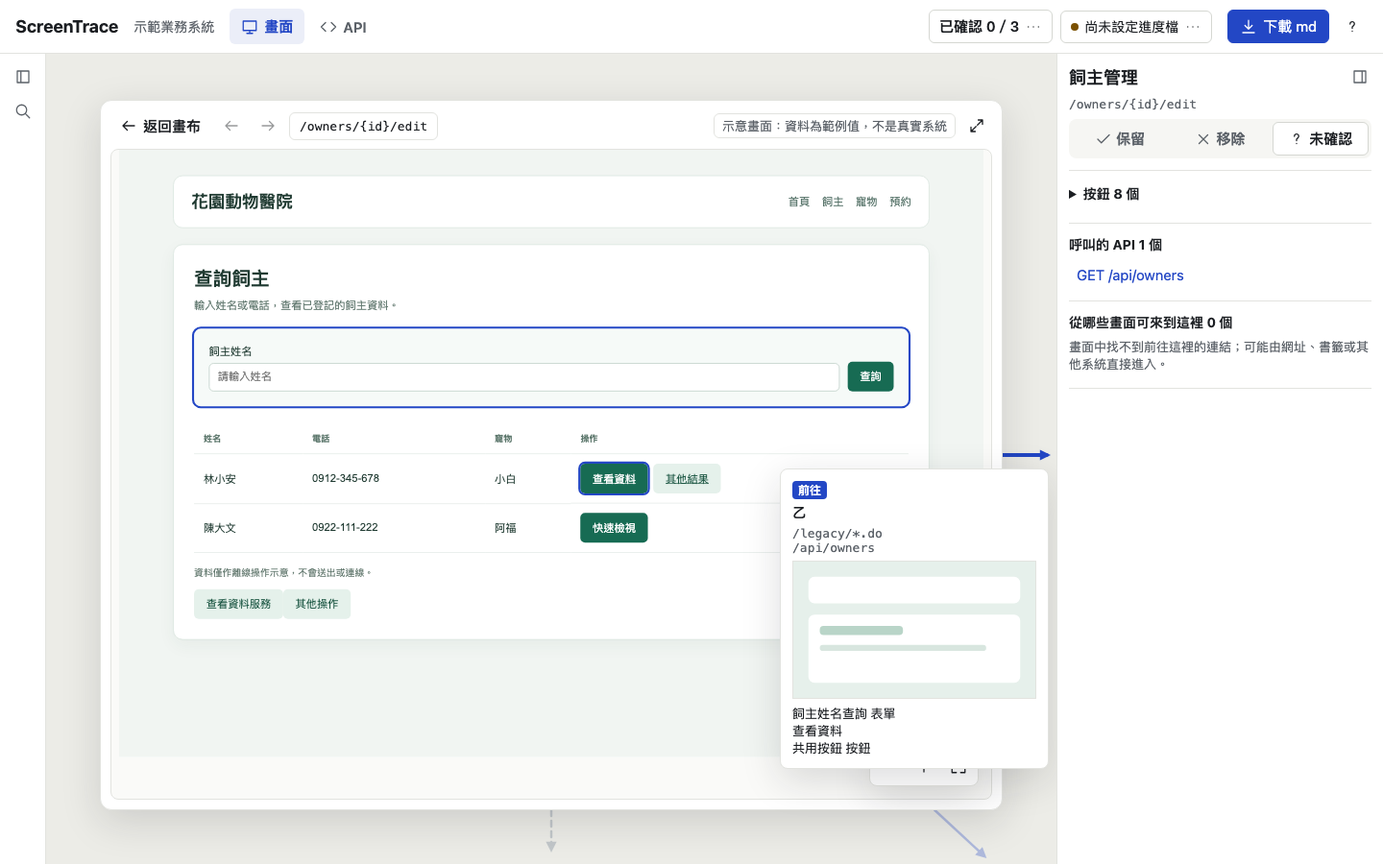
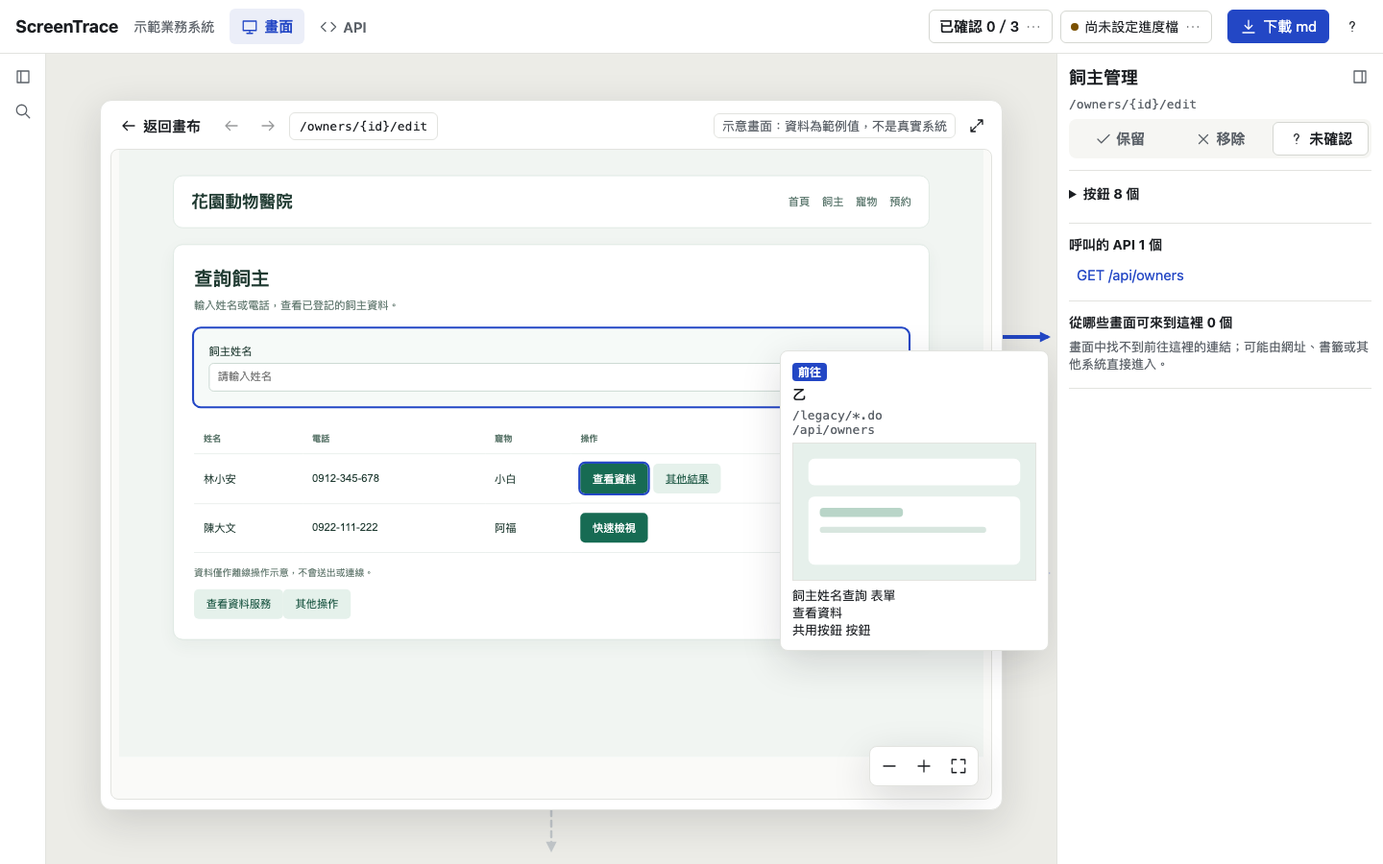
WP105: lines around an open screen arrive on the left and leave on the right, merged by area

Changed region(s): [[0.5625, 0.3733, 0.7812, 0.9022], [0.5625, 0.8089, 0.6562, 0.8711], [0.6875, 0.9644, 0.7188, 0.9956]]

diff --git a/screentrace-viewer/src/canvas.ts b/screentrace-viewer/src/canvas.ts
@@ -39,6 +39,8 @@ export interface CanvasView {
 }
 
 const CARD={width:250,height:220},MOTION_MS=450,DENSE_SCREENS=20,BOX_MARGIN={side:56,top:48,bottom:56};
+/** The side margin of the preview box when some line around it stands for a whole area and carries its label. */
+const BUNDLE_SIDE=176;
 /** The preview fades in over this part of the zoom; if it is still loading, it waits at most READY_MS more. */
 const REVEAL={from:0.3,span:0.45},LEAVE_SPAN=0.3,READY_MS=600,FADE_MS=180;
 /** Same curve as the side panels' width transition, so the canvas and the panels move as one. */
@@ -310,10 +312,34 @@ export function canvas(index:Index,payload:Payload,options:CanvasOptions):Canvas
  const lines=document.createElementNS(svgNs,'svg') as SVGSVGElement,tips=element('div',undefined,'focus-tips');
  lines.classList.add('focus-lines');lines.innerHTML=`<defs>${focusMarkers}</defs>`;
  lines.style.display='none';
- const box=()=>{const w=viewport.clientWidth,h=viewport.clientHeight;return {left:BOX_MARGIN.side,top:BOX_MARGIN.top,right:w-BOX_MARGIN.side,bottom:h-BOX_MARGIN.bottom,width:Math.max(1,w-2*BOX_MARGIN.side),height:Math.max(1,h-BOX_MARGIN.top-BOX_MARGIN.bottom)};};
- const transformFor=(id:string):CanvasTransform=>{const p=positions.get(id)!,b=box(),z=Math.min(b.width/CARD.width,b.height/CARD.height);return {zoom:z,x:b.left+b.width/2-(p.x+CARD.width/2)*z,y:b.top+b.height/2-(p.y+CARD.height/2)*z};};
- const placeLayer=(host:HTMLElement=layer)=>{const b=box();Object.assign(host.style,{left:`${b.left}px`,top:`${b.top}px`,width:`${b.width}px`,height:`${b.height}px`});};
+ const box=(id=focused)=>{const w=viewport.clientWidth,h=viewport.clientHeight,side=labelled(id)?BUNDLE_SIDE:BOX_MARGIN.side;return {left:side,top:BOX_MARGIN.top,right:w-side,bottom:h-BOX_MARGIN.bottom,width:Math.max(1,w-2*side),height:Math.max(1,h-BOX_MARGIN.top-BOX_MARGIN.bottom)};};
+ const transformFor=(id:string):CanvasTransform=>{const p=positions.get(id)!,b=box(id),z=Math.min(b.width/CARD.width,b.height/CARD.height);return {zoom:z,x:b.left+b.width/2-(p.x+CARD.width/2)*z,y:b.top+b.height/2-(p.y+CARD.height/2)*z};};
+ const placeLayer=(host:HTMLElement=layer,id=focused)=>{const b=box(id);Object.assign(host.style,{left:`${b.left}px`,top:`${b.top}px`,width:`${b.width}px`,height:`${b.height}px`});};
  const center=(id:string)=>{const p=positions.get(id)!;return {x:p.x+CARD.width/2,y:p.y+CARD.height/2};};
+ // Around an open screen, lines arrive on the left and leave on the right, one row per area of the map (per screen
+ // when the map has no areas), in the order those screens sit on the map from top to bottom. An area with several
+ // screens is one line whose label names the area and its count, and opens the list of its screens.
+ type Bundle={key:string;label:string;relations:FocusRelation[];others:string[]};
+ const areaOf=new Map<string,{key:string;label:string}>();
+ if(grouped)for(const g of grouped.groups)for(const member of g.members)areaOf.set(member,{key:g.key,label:g.label.split(' · ')[0]});
+ const bundleCache=new Map<string,{known:Bundle[];incoming:Bundle[]}>();
+ const focusBundles=(id:string)=>{
+  const cached=bundleCache.get(id);if(cached)return cached;
+  const gather=(items:{relation:FocusRelation;other:string}[])=>{
+   const map=new Map<string,Bundle>();
+   for(const {relation,other} of items){
+    const area=areaOf.get(other),key=area?`area:${area.key}`:`screen:${other}`;
+    const bundle=map.get(key)??map.set(key,{key,label:area?.label??(index.nodes.get(other)?.name||other),relations:[],others:[]}).get(key)!;
+    bundle.relations.push(relation);if(!bundle.others.includes(other))bundle.others.push(other);
+   }
+   const middle=(bundle:Bundle)=>{const points=bundle.others.map(center);return {x:points.reduce((s,p)=>s+p.x,0)/points.length,y:points.reduce((s,p)=>s+p.y,0)/points.length};};
+   return [...map.values()].map(bundle=>({bundle,at:middle(bundle)})).sort((a,b)=>a.at.y-b.at.y||a.at.x-b.at.x||(a.bundle.key<b.bundle.key?-1:a.bundle.key>b.bundle.key?1:0)).map(item=>item.bundle);
+  };
+  const result={known:gather(focusLines(index,id).filter(r=>!r.unresolved&&r.to!==id).map(relation=>({relation,other:relation.to}))),
+   incoming:gather(partitionNavigation(index).flows.filter(r=>r.to===id&&r.from!==id).map(relation=>({relation,other:relation.from})))};
+  bundleCache.set(id,result);return result;
+ };
+ const labelled=(id:string|undefined)=>{if(!id)return false;const b=focusBundles(id);return [...b.known,...b.incoming].some(bundle=>bundle.others.length>1);};
  // Shared navigation (header/footer links) is summarised as one dashed line each way above the preview box;
  // its label opens the list of screens behind it.
  const drawShared=(id:string,b:ReturnType<typeof box>)=>{
@@ -347,7 +373,7 @@ export function canvas(index:Index,payload:Payload,options:CanvasOptions):Canvas
  const lightLines=(component:string|undefined)=>{for(const {group,triggers} of triggerLines)group.classList.toggle('is-lit',!!component&&triggers.includes(component));};
  const drawLines=(id:string)=>{
   lines.querySelectorAll('g').forEach(g=>g.remove());tips.replaceChildren();triggerLines=[];
-  const b=box(),cx=b.left+b.width/2,cy=b.top+b.height/2,w=viewport.clientWidth,h=viewport.clientHeight,from=center(id);
+  const b=box(id),w=viewport.clientWidth,h=viewport.clientHeight;
   lines.setAttribute('width',String(w));lines.setAttribute('height',String(h));
   // Lines leave toward each destination and arrive from each source, in the directions the overview draws them.
   const relations=focusLines(index,id),known=relations.filter(r=>!r.unresolved&&r.to!==id),loops=relations.filter(r=>r.to===id),stubs=relations.filter(r=>r.unresolved);
@@ -355,21 +381,21 @@ export function canvas(index:Index,payload:Payload,options:CanvasOptions):Canvas
   type Kind='known'|'incoming'|'loop'|'unresolved';
   type Segment={relation:FocusRelation;sx:number;sy:number;ex:number;ey:number;d?:string;kind:Kind};
   const segments:Segment[]=[];
-  const rays=[...known.map(relation=>({relation,other:relation.to,kind:'known' as Kind})),...incoming.map(relation=>({relation,other:relation.from,kind:'incoming' as Kind}))]
-   .map(ray=>{const to=center(ray.other),dx=to.x-from.x,dy=to.y-from.y,length=Math.hypot(dx,dy)||1;return {...ray,ux:dx/length,uy:dy/length,angle:Math.atan2(dy,dx)};})
-   .sort((a,b)=>a.angle-b.angle||(a.other<b.other?-1:a.other>b.other?1:0)||(a.kind<b.kind?-1:a.kind>b.kind?1:0));
-  const groups:(typeof rays)[]=[];for(const ray of rays){const last=groups.at(-1);if(last&&ray.angle-last[0].angle<5*Math.PI/180)last.push(ray);else groups.push([ray]);}
-  for(const group of groups)group.forEach((ray,i)=>{
-   const {ux,uy}=ray,edge=Math.min(ux?b.width/2/Math.abs(ux):Infinity,uy?b.height/2/Math.abs(uy):Infinity);
-   const reach=Math.min(ux>0?(w-6-cx)/ux:ux<0?(6-cx)/ux:Infinity,uy>0?(h-6-cy)/uy:uy<0?(6-cy)/uy:Infinity);
-   const offset=(i-(group.length-1)/2)*18,nx=-uy*offset,ny=ux*offset,inner={x:cx+ux*edge+nx,y:cy+uy*edge+ny},outer={x:cx+ux*reach+nx,y:cy+uy*reach+ny};
-   const [start,end]=ray.kind==='incoming'?[outer,inner]:[inner,outer];
-   segments.push({relation:ray.relation,kind:ray.kind,sx:start.x,sy:start.y,ex:end.x,ey:end.y});
-  });
+  const bundles=focusBundles(id),wide=labelled(id),labels:{bundle:Bundle;kind:'known'|'incoming';y:number}[]=[],names:{bundle:Bundle;kind:'known'|'incoming';y:number}[]=[];
+  for(const kind of ['incoming','known'] as const){
+   const list=bundles[kind];
+   list.forEach((bundle,i)=>{
+    const y=Math.round(b.top+b.height*(i+1)/(list.length+1)),edge=kind==='incoming'?b.left:b.right,outer=kind==='incoming'?6:w-6;
+    if(bundle.others.length>1){labels.push({bundle,kind,y});return;}
+    // One screen: one line per flow, side by side; when the margins hold labels, its name labels it too.
+    if(wide)names.push({bundle,kind,y});
+    bundle.relations.forEach((relation,j)=>{const ly=y+(j-(bundle.relations.length-1)/2)*10;segments.push(kind==='incoming'?{relation,kind,sx:outer,sy:ly,ex:edge,ey:ly}:{relation,kind,sx:edge,sy:ly,ex:outer,ey:ly});});
+   });
+  }
   drawShared(id,b);
   stubs.forEach((relation,i)=>{const sx=b.left+b.width*(i+1)/(stubs.length+1);segments.push({relation,kind:'unresolved',sx,sy:b.bottom,ex:sx,ey:Math.min(h-8,b.bottom+44)});});
   // Lines back to this screen sit where the box edge is free: away from every other line's end and the shared links.
-  const shared=sharedNavigation(index,id),taken=segments.map(segment=>segment.kind==='incoming'?{x:segment.ex,y:segment.ey}:{x:segment.sx,y:segment.sy});
+  const shared=sharedNavigation(index,id),taken=[...segments.map(segment=>segment.kind==='incoming'?{x:segment.ex,y:segment.ey}:{x:segment.sx,y:segment.sy}),...labels.map(l=>({x:l.kind==='incoming'?b.left:b.right,y:l.y}))];
   if(shared.into.length)taken.push({x:b.left+b.width*0.3,y:b.top});if(shared.out.length)taken.push({x:b.left+b.width*0.7,y:b.top});
   loops.forEach(relation=>{const spot=freeSpot(b,taken,!shared.into.length&&!shared.out.length);taken.push(spot);segments.push({relation,kind:'loop',...loopPath(spot,b)});});
   for(const segment of segments){
@@ -394,13 +420,49 @@ export function canvas(index:Index,payload:Payload,options:CanvasOptions):Canvas
    group.append(visibleLine,hit);lines.append(group);
    if(!arriving)triggerLines.push({group,triggers:relation.triggers});
   }
+  for(const {bundle,kind,y} of names){
+   const arriving=kind==='incoming',other=bundle.others[0],name=index.nodes.get(other)?.name||other;
+   const pill=element('button',undefined,`focus-bundle is-screen ${arriving?'is-in':'is-out'}`);pill.append(element('span',name,'focus-bundle-name'));
+   pill.dataset.kind=arriving?'incoming-screen':'known-screen';pill.dataset.screen=other;pill.setAttribute('aria-label',`${arriving?'來自':'前往'}「${name}」`);
+   pill.style.maxWidth=`${Math.max(64,(arriving?b.left:w-b.right)-28)}px`;tips.append(pill);
+   const pw=pill.offsetWidth||120,ph=pill.offsetHeight||24;Object.assign(pill.style,{left:`${arriving?8:w-8-pw}px`,top:`${y-ph/2}px`});
+   pill.onpointerenter=()=>{if(!frameId)options.onIntent?.(other);};pill.onclick=event=>{event.stopPropagation();options.onOpen(other);};
+  }
+  for(const {bundle,kind,y} of labels){
+   const arriving=kind==='incoming',count=bundle.others.length,dataKind=arriving?'incoming-bundle':'known-bundle';
+   const pill=element('button',undefined,`focus-bundle ${arriving?'is-in':'is-out'}`);
+   pill.append(element('span',bundle.label,'focus-bundle-name'),element('span',String(count),'focus-bundle-count'));
+   pill.dataset.group=bundle.key;pill.dataset.kind=dataKind;pill.dataset.count=String(count);
+   pill.setAttribute('aria-haspopup','true');pill.setAttribute('aria-expanded','false');pill.setAttribute('aria-label',`${arriving?'來自':'前往'}「${bundle.label}」的 ${count} 個畫面`);
+   pill.style.maxWidth=`${Math.max(64,(arriving?b.left:w-b.right)-28)}px`;tips.append(pill);
+   const pw=pill.offsetWidth||120,ph=pill.offsetHeight||24,left=arriving?8:w-8-pw;
+   Object.assign(pill.style,{left:`${left}px`,top:`${y-ph/2}px`});
+   const [sx,ex]=arriving?[left+pw,b.left]:[b.right,left],end=arrowEnd(sx,y,ex,y);
+   const group=document.createElementNS(svgNs,'g'),line=document.createElementNS(svgNs,'path') as SVGPathElement;
+   line.setAttribute('d',`M${sx},${y} L${end.x},${end.y}`);line.setAttribute('class',`focus-line bundle ${arriving?'is-in':'is-out'}`);
+   line.style.strokeWidth=String(Math.min(8,2.5+Math.log2(count)*1.5));line.dataset.kind=dataKind;line.dataset.group=bundle.key;line.dataset.count=String(count);
+   group.append(line);lines.append(group);
+   const triggers=arriving?[]:bundle.relations.flatMap(relation=>relation.triggers);if(!arriving)triggerLines.push({group,triggers});
+   const menu=element('div',undefined,'shared-popover focus-bundle-menu');menu.hidden=true;menu.setAttribute('role','menu');menu.dataset.group=bundle.key;
+   menu.append(element('strong',`${arriving?'從':'前往'}「${bundle.label}」的 ${count} 個畫面`));
+   for(const other of bundle.others){const item=element('button',index.nodes.get(other)?.name||other,'link-row');item.setAttribute('role','menuitem');item.dataset.bundleScreen=other;item.onclick=()=>options.onOpen(other);item.onpointerenter=()=>{if(!frameId)options.onIntent?.(other);};menu.append(item);}
+   const close=()=>{menu.hidden=true;pill.setAttribute('aria-expanded','false');};
+   pill.onpointerenter=pill.onfocus=()=>{group.classList.add('is-active');if(!arriving)options.onLineHover?.(triggers);};
+   pill.onpointerleave=pill.onblur=()=>{group.classList.remove('is-active');options.onLineHover?.(undefined);};
+   pill.onclick=event=>{event.stopPropagation();const open=menu.hidden;tips.querySelectorAll<HTMLElement>('.shared-popover').forEach(m=>{m.hidden=true;});tips.querySelectorAll('.shared-link,.focus-bundle').forEach(p=>p.setAttribute('aria-expanded','false'));
+    if(!open)return;menu.hidden=false;pill.setAttribute('aria-expanded','true');
+    const mw=menu.offsetWidth||260,mh=menu.offsetHeight||200;menu.style.left=`${arriving?left:Math.max(8,w-8-mw)}px`;menu.style.top=`${Math.max(8,Math.min(h-mh-8,y+ph/2+6))}px`;menu.querySelector<HTMLElement>('button')?.focus();};
+   menu.addEventListener('keydown',event=>{if(event.key==='Escape'){event.stopPropagation();close();pill.focus();}});
+   menu.addEventListener('click',event=>event.stopPropagation());
+   tips.append(menu);
+  }
  };
  // Zooming is a shared-element move: the card's thumbnail lands exactly where the page appears in the preview box,
  // and the box travels with the card, so only its frame fades in around a picture that never jumps.
  const aligned=(id:string,host:HTMLElement):CanvasTransform=>{
   const card=cards.get(id),image=card?.querySelector<HTMLImageElement>('img.card-preview'),scroller=host.querySelector<HTMLElement>('.prototype-scroll'),frame=scroller?.offsetParent as HTMLElement|null;
   if(!card||!image?.naturalWidth||!image.naturalHeight||!scroller||!frame||host.hidden)return transformFor(id);
-  const page=Math.max(1,payload.preview.screens?.find(s=>s.graphScreenId===id)?.width||1440),b=box(),p=positions.get(id)!;
+  const page=Math.max(1,payload.preview.screens?.find(s=>s.graphScreenId===id)?.width||1440),b=box(id),p=positions.get(id)!;
   const boxWidth=image.clientWidth,boxHeight=image.clientHeight,shown=boxWidth/boxHeight<image.naturalWidth/image.naturalHeight?boxWidth:boxHeight*image.naturalWidth/image.naturalHeight;
   const thumbX=p.x+card.clientLeft+image.offsetLeft+(boxWidth-shown)/2,thumbY=p.y+card.clientTop+image.offsetTop;
   const inner=scroller.clientWidth,scale=Math.min(1,Math.max(1,inner-16)/page);
@@ -410,7 +472,7 @@ export function canvas(index:Index,payload:Payload,options:CanvasOptions):Canvas
  };
  /** Keeps a preview box glued to its card while the world moves. */
  const glue=(host:HTMLElement,id:string)=>{
-  placeLayer(host);const a=aligned(id,host),k=zoom/a.zoom,b=box();
+  placeLayer(host,id);const a=aligned(id,host),k=zoom/a.zoom,b=box(id);
   host.style.transformOrigin='0 0';
   host.style.transform=Math.abs(k-1)<1e-4&&Math.abs(x-a.x)<.5&&Math.abs(y-a.y)<.5?'':`translate(${x+(b.left-a.x)*k-b.left}px, ${y+(b.top-a.y)*k-b.top}px) scale(${k})`;
  };
@@ -478,7 +540,7 @@ export function canvas(index:Index,payload:Payload,options:CanvasOptions):Canvas
    if(loaded||reducedMotion())reveal();else Promise.race([ready!,wait(READY_MS)]).then(reveal);
   };
   if(reducedMotion()||crossfade){finish();return;}
-  animate(()=>{placeLayer(host);return aligned(id,host);},center(id),t=>{
+  animate(()=>{placeLayer(host,id);return aligned(id,host);},center(id),t=>{
    if(t>0)build();
    if(previous)fadeLeaving(previous,t,oldOpacity);
    glue(host,id);host.style.opacity=loaded?String(clamp((t-REVEAL.from)/REVEAL.span)):'0';

diff --git a/screentrace-viewer/src/viewer.css b/screentrace-viewer/src/viewer.css
@@ -202,7 +202,16 @@ main{position:relative;overflow:hidden;min-width:0}
 #focus-arrow-in path{fill:var(--flow-in)}
 #focus-arrow-unresolved path{fill:#64748b}
 .focus-line.shared{stroke-dasharray:5 4}
-.shared-link,.shared-popover{pointer-events:auto}
+.shared-link,.shared-popover,.focus-bundle{pointer-events:auto}
+/* An area's lines around an open screen, merged: the label names the area and counts its screens, and opens their list. */
+.focus-bundle{position:absolute;z-index:7;display:inline-flex;align-items:center;gap:6px;height:24px;padding:0 3px 0 10px;border:1px solid currentColor;border-radius:12px;background:white;font-size:13px;font-weight:600;white-space:nowrap;cursor:pointer}
+.focus-bundle.is-in{color:var(--flow-in)}
+.focus-bundle.is-out{color:var(--flow-out)}
+.focus-bundle:hover,.focus-bundle[aria-expanded=true]{background:var(--gray-100)}
+.focus-bundle-name{min-width:0;overflow:hidden;text-overflow:ellipsis}
+.focus-bundle-count{flex:none;min-width:18px;padding:0 6px;border-radius:9px;color:white;text-align:center;line-height:18px}
+.focus-bundle.is-in .focus-bundle-count{background:var(--flow-in)}
+.focus-bundle.is-out .focus-bundle-count{background:var(--flow-out)}
 .shared-link{position:absolute;z-index:7;display:inline-flex;align-items:center;height:24px;padding:0 10px;border:1px solid currentColor;border-radius:12px;background:white;font-size:13px;font-weight:600;white-space:nowrap;cursor:pointer}
 .shared-link.is-in{color:var(--flow-in)}
 .shared-link.is-out{color:var(--flow-out)}

diff --git a/docs/ROADMAP.md b/docs/ROADMAP.md
@@ -240,12 +240,17 @@
 - WP101：`pack-preview.mjs` 只保留 `packStandaloneDocuments`，使用舊入口的 4 個測試改用正式入口，見 [ADR 0122](adr/0122-r31-retire-inline-css-pack.md)。
 - 驗證：Maven 579（571 通過、1 略過，另 OQ-041 的 7 個 Chromium 測試在 sandbox 內無法執行）；viewer 單元測試 141 個（sandbox 內 139 通過，OQ-047 的 2 個 Chromium 測試無法執行）；JS 測試 180 個；PR CI run https://github.com/sprangdes/screentrace/actions/runs/41980760505 三個 job 全綠（含 E2E 與上述 7 個測試）。PR：https://github.com/sprangdes/screentrace/pull/75。
 
+## R32 API 與角色頁的圖形化元素與角色頁改版
+
+- WP102：API 清單的方法色標、路徑參數標示與呼叫畫面數長條；API 詳情區在寬螢幕上分成左右兩欄；角色頁改為上方角色卡片、流程看板與「全部角色對照」覆蓋表；API 清單、角色頁右欄與畫面清單改為比例寬度並可拖曳調整；viewer 小字放大 1px；移除畫布左上角的操作提示；進度檔的成功訊息幾秒後自動消失；API 清單捲動時 Controller 標題上方不再露出捲過的列，見 [ADR 0123](adr/0123-r32-api-persona-graphics.md)。
+- 驗證：viewer 單元測試 147 個（新增 6）、E2E 109 個（新增 7；`api-page-layout`、`r23-persona-page`、`r28-visual-summaries`、`r17-focus`、`overview-pin` 中與舊版面或操作提示綁定的斷言隨改版調整）、JS 測試 180 個、Maven 579（0 失敗、1 略過）全部通過；reservio 的 `viewer-documents.json` 與修改前逐位元組相同，只有報表 HTML 內的 viewer 改變。
+
 ## R33 縮小的總覽上看得出每一區與每個畫面
 
 - WP103：總覽的區名放在區塊框頂端加高的標題帶並固定在可讀的字級，下面列出這一區前 3 個畫面的名稱；縮小時滑過卡片立即顯示畫面名稱與網址，見 [ADR 0124](adr/0124-r33-overview-labels.md)。
 - 驗證：viewer 單元測試 148 個（新增 1）、E2E 111 個（新增 2）、JS 測試 180 個、Maven 建置通過；reservio 的 `viewer-documents.json` 與修改前逐位元組相同。
 
-## R32 API 與角色頁的圖形化元素與角色頁改版
+## R35 放大畫面時的關聯線整理
 
-- WP102：API 清單的方法色標、路徑參數標示與呼叫畫面數長條；API 詳情區在寬螢幕上分成左右兩欄；角色頁改為上方角色卡片、流程看板與「全部角色對照」覆蓋表；API 清單、角色頁右欄與畫面清單改為比例寬度並可拖曳調整；viewer 小字放大 1px；移除畫布左上角的操作提示；進度檔的成功訊息幾秒後自動消失；API 清單捲動時 Controller 標題上方不再露出捲過的列，見 [ADR 0123](adr/0123-r32-api-persona-graphics.md)。
-- 驗證：viewer 單元測試 147 個（新增 6）、E2E 109 個（新增 7；`api-page-layout`、`r23-persona-page`、`r28-visual-summaries`、`r17-focus`、`overview-pin` 中與舊版面或操作提示綁定的斷言隨改版調整）、JS 測試 180 個、Maven 579（0 失敗、1 略過）全部通過；reservio 的 `viewer-documents.json` 與修改前逐位元組相同，只有報表 HTML 內的 viewer 改變。
+- WP105：放大畫面時，進來的線排在預覽框左側、出去的在右側，依畫布位置由上而下排列；同一區有多個畫面的線合成一條附區名與數量的線，點標籤列出畫面，見 [ADR 0126](adr/0126-r35-focus-line-bundles.md)。
+- 驗證：待 PR CI 完成後補入。

diff --git a/docs/adr/0126-r35-focus-line-bundles.md b/docs/adr/0126-r35-focus-line-bundles.md
@@ -1,0 +1,24 @@
+# ADR 0126：R35 放大畫面時的關聯線左進右出、依區塊合併
+
+## 背景
+
+放大到一個畫面時，四周的關聯線原本指向對方畫面在總覽上的方位（ADR 0084 起的作法）。被很多畫面連到的畫面，線會從四面八方進出：reservio 的登入畫面有 34 條進來、7 條出去的線，方向各異、互相交錯，看不出從哪些功能來、往哪些功能去。需求方要求把放大後的關聯線排整齊。
+
+## 選項
+
+1. 左進右出，每個畫面一條平行線：整齊，但線多時一側擠滿。
+2. 依方位合併成粗線：線變少，仍是放射狀。
+3. 左進右出，依區塊合併：採用（需求方選擇）。
+
+## 決定
+
+- R35-1：進來的線一律在預覽框左側、出去的線在右側，水平排列；一列代表一個區塊（總覽依網址分的區，或角色流程中的步驟欄），畫布沒有分區時一列代表一個畫面。列依那些畫面在畫布上的平均位置由上而下、再由左而右排序，在框邊等距分布。
+- R35-2：同一區有兩個以上畫面的列合成一條線，線寬隨畫面數增加（`2.5 + log2(數量) × 1.5`，最多 8），外側的標籤（`.focus-bundle`）寫區名與數量；點標籤列出這些畫面，選一個就前往，Esc 關閉。出去的合併線滑過時，會一起標出預覽中所有會走這些線的按鈕。
+- R35-3：只有一個畫面的列維持原本的線（`.focus-line-hit` 的 `data-kind` 仍是 `known`／`incoming`，滑過顯示縮圖與按鈕，點了前往），同一畫面的多條流程在同一列上下並排。有合併線時，這些列也加上寫著畫面名稱的標籤，點了前往。
+- R35-4：有合併線時，預覽框左右的留白由 56px 加寬到 176px 放標籤；沒有時維持 56px，預覽大小不變。
+- R35-5：頁首／頁尾共用連結、回到自己的線與無法確定去處的出口，位置與原本相同。
+- R35-6：`r17-focus.e2e.mjs` 中「出去的線方向和總覽相同」的斷言改為「從右邊緣水平向右、依畫布位置由上而下」，這是本次刻意改變的行為。只改 viewer 的程式、樣式、測試與文件；分析與 graph JSON 不變。
+
+## 後果
+
+被很多畫面連到的畫面，四周的線從幾十條減為每側幾列，並直接看得出來自或前往哪些功能區。代價是看不出對方畫面在總覽上的方向，且有合併線時預覽框較窄。

diff --git a/docs/USER_GUIDE.md b/docs/USER_GUIDE.md
@@ -64,7 +64,7 @@
 你可以點進畫面看完整內容，並在右側欄標記這個畫面和它的按鈕。
 
 1. 在畫布上點一下畫面，會標出它的所有關聯線，並移到剛好看得到它和相關畫面的範圍；點空白處或按 Esc 取消。點兩下畫面（或點左側清單、在畫面上按 Enter），畫布會放大到這個畫面，中間顯示完整預覽。左側清單會收起，只留下左上角的側欄按鈕和搜尋按鈕；點側欄按鈕，清單會浮在畫布上方，不會擠小預覽。選好畫面、按 Esc 或點清單外的地方，清單就會自動收回。
-2. 預覽四周留下這個畫面的關聯線，方向和原本畫布上一樣：藍色是從這裡出去的線，橘色是從其他畫面進來的線。為了不干擾預覽，這些線平常會淡化，仍看得出方向和數量；滑過一條線或用 Tab 移到線上，這條線就會清楚顯示。滑過藍線可以看到目的畫面的縮圖，以及預覽中是哪些按鈕會前往那裡；滑過橘線可以看到來源畫面和它上面的按鈕。點線就移到那個畫面。
+2. 預覽左右兩側留下這個畫面的關聯線：左邊橘色是從其他畫面進來的線，右邊藍色是從這裡出去的線，依那些畫面在畫布上由上而下的位置排列。畫布有分區時，同一區有多個畫面的線合成一條較粗的線，旁邊的標籤寫著區名和畫面數，點標籤會列出這些畫面，選一個就前往；只有一個畫面的線，標籤直接寫畫面名稱，點了就前往。為了不干擾預覽，這些線平常會淡化，仍看得出方向和數量；滑過一條線或用 Tab 移到線上，這條線就會清楚顯示。滑過藍線可以看到目的畫面的縮圖，以及預覽中是哪些按鈕會前往那裡；滑過橘線可以看到來源畫面和它上面的按鈕。點線就移到那個畫面。
    框上方的虛線代表頁首、頁尾的共用連結：橘色是「從幾個畫面的頁首／頁尾連進來」，藍色是「這個畫面的頁首／頁尾可以前往幾個畫面」。這兩條虛線也平常淡化，但上面的標籤一直清楚顯示。點標籤會列出這些畫面，選一個就前往。
 3. 框下方的灰色短虛線表示「無法確定前往哪個畫面」的出口，例如程式組成的網址。
 4. 右側欄上方選擇「保留」「移除」或「未確認」。
